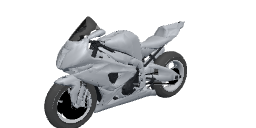
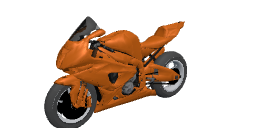
Cores fixas dos veiculos (carros e motos) e icones; foto da garagem escolhe e esconde o mouse; Shift empina
Claude-Session: https://claude.ai/code/session_01RT3XWXPgV7JXuhkqbgCwHv

Changed region(s): [[0.1875, 0.1562, 0.7188, 0.875], [0.2812, 0.2188, 0.3438, 0.25]]

diff --git a/src/game/vehicle.ts b/src/game/vehicle.ts
@@ -50,6 +50,13 @@ export const CLOVER_BROWN = 0x4a2f22;
 /** cores do carro: as comuns; o Clover também pode ser marrom escuro (troca o grafite, para não mudar o sorteio da cidade) */
 export const colorForModel = (model: string, c: number): number => (model === 'clover' && c === 0x4a4f57 ? CLOVER_BROWN : c);
 export const DEFAULT_PAINT = '#b9bec5';
+/** Cor de cada veículo da loja/garagem (a mesma no ícone e no jogo): carros azul escuro, cinza escuro e marrom; motos vinho, amarela, laranja e verde. A viatura mantém a pintura do modelo. */
+export const VEHICLE_COLOR: Record<string, number> = {
+  blistac: 0x16234f, buffalo: 0x3a3d42, clover: 0x4a2f22,
+  harley: 0x6a1419, triumph: 0xf0c419, bmw: 0xe8731a, suzuki: 0x1f7a3a,
+};
+/** materiais do GLB que formam a pintura (tanque, carenagem) de cada moto: recebem a cor de `VEHICLE_COLOR` */
+const BIKE_BODY: Record<string, string[]> = { harley: ['m5'], triumph: ['paint'], bmw: ['m0'], suzuki: ['m0', 'm1'] };
 export const POLICE_LOOK: PaintLook = { c1: '#f1f2f4', c2: '#16181b', police: true };
 
 const BLACK = 0x161616;
@@ -142,6 +149,21 @@ function applyCommonLook(model: THREE.Object3D, bike: boolean, dark: string[]): 
         return c;
       }
       return mat;
+    };
+    m.material = Array.isArray(m.material) ? m.material.map(fix) : fix(m.material);
+  });
+}
+/** Pinta o tanque e a carenagem da moto (materiais pelo nome no GLB), tirando a textura para a cor ficar lisa. As rodas já foram trocadas por `applyCommonLook`. */
+function tintBike(model: THREE.Object3D, names: string[], hex: number): void {
+  const done = new Map<THREE.Material, THREE.Material>();
+  model.traverse((o) => {
+    const m = o as THREE.Mesh;
+    if (!m.isMesh) return;
+    const fix = (mat: THREE.Material): THREE.Material => {
+      if (!names.includes(mat.name)) return mat;
+      let c = done.get(mat);
+      if (!c) { const std = mat.clone() as THREE.MeshStandardMaterial; std.map = null; std.color.setHex(hex); std.roughness = 0.4; std.metalness = 0.35; c = std; done.set(mat, c); }
+      return c;
     };
     m.material = Array.isArray(m.material) ? m.material.map(fix) : fix(m.material);
   });
@@ -241,6 +263,7 @@ export function buildCarVisual(src: THREE.Object3D, colorHex: number, look?: Pai
   const paint = new THREE.Color(colorHex);
   const done = new Map<THREE.Material, THREE.Material>();
   if (!look?.police) applyCommonLook(model, bike, BIKE_DARK[modelName] ?? []);
+  if (bike && !look?.police && VEHICLE_COLOR[modelName] !== undefined) tintBike(model, BIKE_BODY[modelName] ?? [], VEHICLE_COLOR[modelName]!);
   if (modelName === POLICE_MODEL) { roundWheels(model); boostContrast(model); } // todo veículo comum: pneu preto (e motor preto nas motos)
   if (look?.police) applyTeamPaint(model, look, bike); // só a viatura é repintada; os pessoais mantêm as cores do arquivo (a equipe vai em adesivos nas portas dos carros; moto sem nada)
   model.traverse((o) => {
@@ -981,7 +1004,7 @@ export function spawnPersonal(ownerId: string, model: string, look: PaintLook | 
   if (!car) {
     let h = 0;
     for (const ch of ownerId) h = (h * 31 + ch.charCodeAt(0)) >>> 0;
-    car = new Car(nextPersonalId++, x, z, heading, colorForModel(model, COMMON_COLORS[h % COMMON_COLORS.length]!), model, look);
+    car = new Car(nextPersonalId++, x, z, heading, VEHICLE_COLOR[model] ?? colorForModel(model, COMMON_COLORS[h % COMMON_COLORS.length]!), model, look);
     car.ownerId = ownerId;
     CARS.push(car);
     carsGroup.add(car.root);

diff --git a/dev/vehicle-icons.ts b/dev/vehicle-icons.ts
@@ -1,7 +1,7 @@
 // Ferramenta de desenvolvimento: desenha cada veículo em vista 3/4, fundo transparente, para a Garagem e a Loja.
 // Uso: abrir /dev/vehicle-icons.html e ler window.ICONS (dataURL por modelo) — o script scratchpad/vicons.js salva em public/hud/v-<modelo>.png.
 import * as THREE from 'three';
-import { BIKE_MODELS, buildCarVisual, CAR_MODELS, loadModel, POLICE_MODEL } from '../src/game/vehicle';
+import { BIKE_MODELS, buildCarVisual, CAR_MODELS, loadModel, POLICE_MODEL, VEHICLE_COLOR } from '../src/game/vehicle';
 
 const W = 256;
 const H = 128;
@@ -21,7 +21,7 @@ const LOOK = new URLSearchParams(location.search).has('team') ? { c1: '#009c3b',
 const out: Record<string, string> = {};
 for (const m of [...CAR_MODELS, POLICE_MODEL, ...BIKE_MODELS]) {
   const bike = (BIKE_MODELS as readonly string[]).includes(m);
-  const v = buildCarVisual(await loadModel(m), 0xffffff, LOOK, bike, m).group;
+  const v = buildCarVisual(await loadModel(m), VEHICLE_COLOR[m] ?? 0xffffff, LOOK, bike, m).group;
   const holder = new THREE.Group();
   holder.add(v);
   holder.rotation.y = -0.75; // vista 3/4 da frente

diff --git a/src/ui/pause.ts b/src/ui/pause.ts
@@ -200,7 +200,11 @@ export function createPauseMenu(d: PauseDeps): PauseMenu {
         if (here) d.garage.park();
         else { const r = d.garage.call(it.model!); if (r) { out.className = 'ps-msg err'; out.textContent = r; return; } }
         api.close();
+        // PC: esconde o mouse de novo para jogar (o clique é o gesto que o navegador exige)
+        if (!('ontouchstart' in window) && navigator.maxTouchPoints === 0) document.querySelector('canvas')?.requestPointerLock?.();
       };
+      pic.style.cursor = 'pointer';
+      pic.onclick = () => go.click(); // clicar na foto já escolhe o veículo, fecha a janela e esconde o mouse
       const card = el('div', `ps-card${here ? ' sel' : ''}`, pic, el('b', '', it.name), el('small', '', it.desc));
       if (here) card.appendChild(el('span', 'ps-tag', 'Perto de você'));
       card.appendChild(go);

diff --git a/src/ui/mobile.ts b/src/ui/mobile.ts
@@ -414,7 +414,7 @@ export function createMobileHud(opts: MobileHudOptions): MobileHud {
     ['T', 'Falar (segure)'], ['M', 'Mapa'], ['L', 'Esconder esta legenda'], ['P', 'Menu / configurações'],
   ];
   const KEYS_CAR: [string, string][] = [
-    ['W / S', 'Acelerar / freio'], ['A / D', 'Virar'], ['Espaço', 'Freio de mão'], ['H', 'Buzina'], ['V', 'Empinar (moto)'], ['L', 'Luzes da viatura'],
+    ['W / S', 'Acelerar / freio'], ['A / D', 'Virar'], ['Espaço', 'Freio de mão'], ['H', 'Buzina'], ['Shift / V', 'Empinar (moto)'], ['L', 'Luzes da viatura'],
     ['F', 'Sair do veículo'], ['C', 'Veículos'], ['B', 'Loja'], ['M', 'Mapa'], ['P', 'Menu'],
   ];
   for (const [list, cls] of [[KEYS_FOOT, 'foot-k'], [KEYS_CAR, 'car-k']] as const) {

diff --git a/src/game/input.ts b/src/game/input.ts
@@ -163,7 +163,7 @@ export function readInput(): InputState {
     handbrake: keys.has('Space') || padHand,
     horn: keys.has('KeyH') || padHorn,
     lights: lightsQ,
-    wheelie: keys.has('KeyV') || padWheelie,
+    wheelie: keys.has('KeyV') || keys.has('ShiftLeft') || keys.has('ShiftRight') || padWheelie,
   };
   jumpQ = false;
   climbQ = false;

diff --git a/CLAUDE.md b/CLAUDE.md
@@ -290,3 +290,8 @@ Multiplayer no navegador. Mapa: cidade inspirada na Av. Paulista (SP), com o MAS
 - Limite de FPS: LIGADO por padrão em 30 (opções 30/45/60; desligado o jogo roda a cada quadro do navegador, sem limite). O corte fica no início de `loop()` em main.ts (pula quadros que chegam cedo demais, antes de ler o relógio).
 - Tecla L esconde/mostra a legenda das teclas no PC (a pé; dirigindo, L continua sendo as luzes da viatura).
 - load-animation.html só REGISTRA as trocas (Copiar/Baixar JSON): aplicar no jogo exige rodar o bake (`scripts/bake-carlos-ifp.cjs`) com o .ifp e o JSON.
+
+## Rodada: cores dos veículos, clique na foto da garagem, Shift empina
+- Cores fixas por modelo (`VEHICLE_COLOR` em vehicle.ts, usadas no jogo e nos ícones da loja/garagem): Blista azul escuro, Buffalo cinza escuro, Clover marrom; motos Harley vinho, Triumph amarela, BMW laranja, Suzuki verde (a viatura PM mantém a pintura do modelo). Antes o carro pessoal tinha cor sorteada por dono e os ícones saíam brancos/cinza. As motos são pintadas por `tintBike` nos materiais `BIKE_BODY` (tanque/carenagem: harley `m5`, triumph `paint`, bmw `m0`, suzuki `m0`+`m1`; achados pintando cada material de uma cor no navegador). Refazer ícones: `dev/vehicle-icons.html` (lê `window.ICONS`) e salvar em `public/hud/v-<modelo>.png`.
+- Garagem: clicar na FOTO do veículo faz o mesmo que o botão Chamar/Guardar (escolhe, fecha a janela) e, no PC, pede de novo o mouse preso (`requestPointerLock`, esconde o cursor).
+- Empinar a moto no PC: Shift (ou V). Legenda atualizada.
